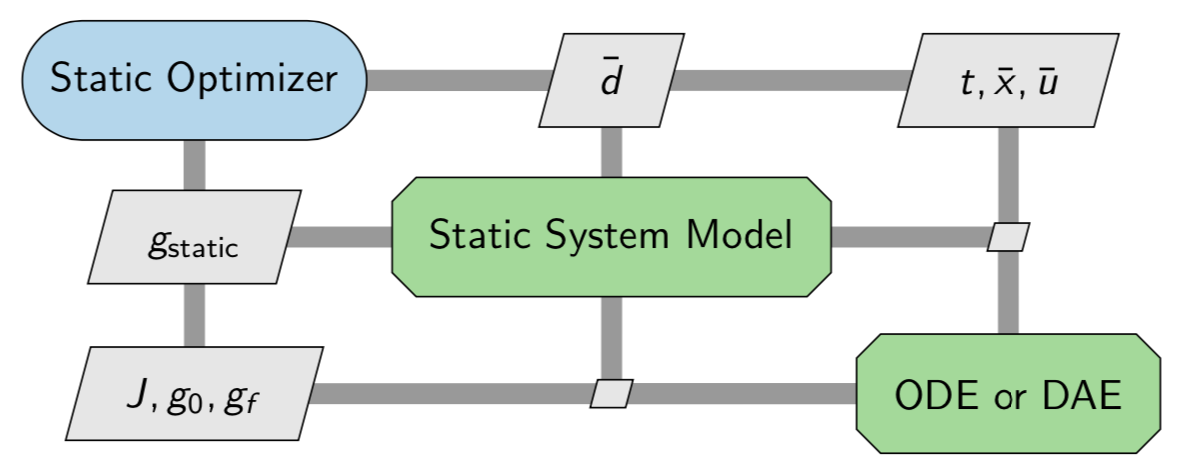
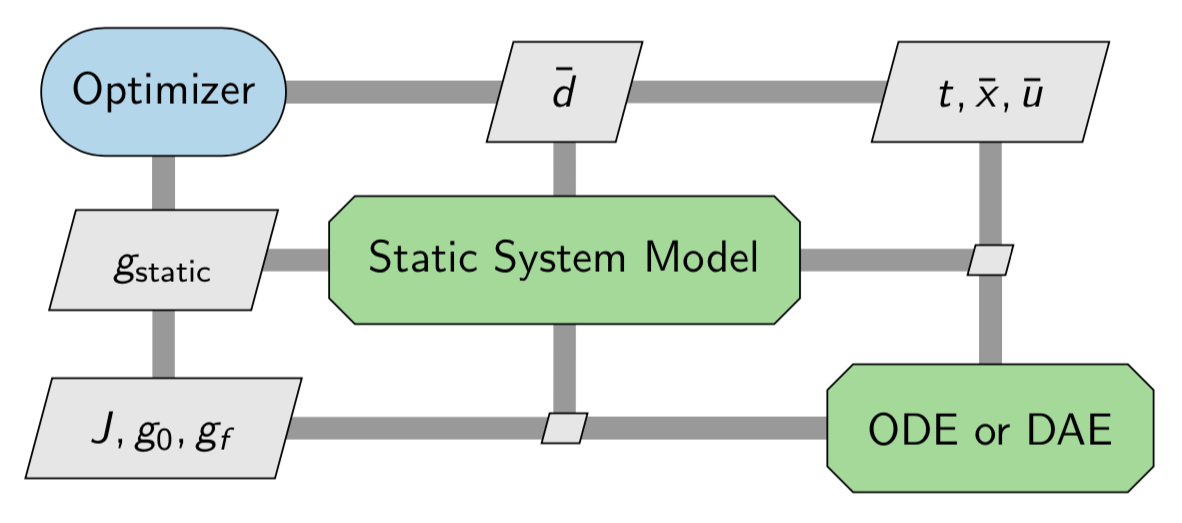
tweaked xdsm

Changed region(s): [[0.0, 0.0294, 1.0, 0.9706]]

diff --git a/joss/images/opt_control.py b/joss/images/opt_control.py
@@ -7,7 +7,7 @@ x.add_system('OPT', OPT, r"\text{Optimizer}")
 x.add_system('ODE', GROUP, r"\text{ODE or DAE}")
 
 x.connect('ODE', 'OPT', ["J", "g_0", "g_f"],  label_width=3)
-x.connect('OPT', 'ODE', ["t", r"\bar{x}", r"\bar{u}", r"\bar{d}"],  label_width=3)
+x.connect('OPT', 'ODE', ["t", r"\bar{x}", r"\bar{u}", r"\bar{d}"],  label_width=4)
 
 x.write('opt_control')
 
@@ -34,7 +34,7 @@ x.write('sequential_co_design')
 
 x = XDSM()
 
-x.add_system('OPT', OPT, r"\text{Static Optimizer}")
+x.add_system('OPT', OPT, r"\text{Optimizer}")
 x.add_system('static', GROUP, r"\text{Static System Model}")
 x.add_system('dynamic', GROUP, r"\text{ODE or DAE}")
 
